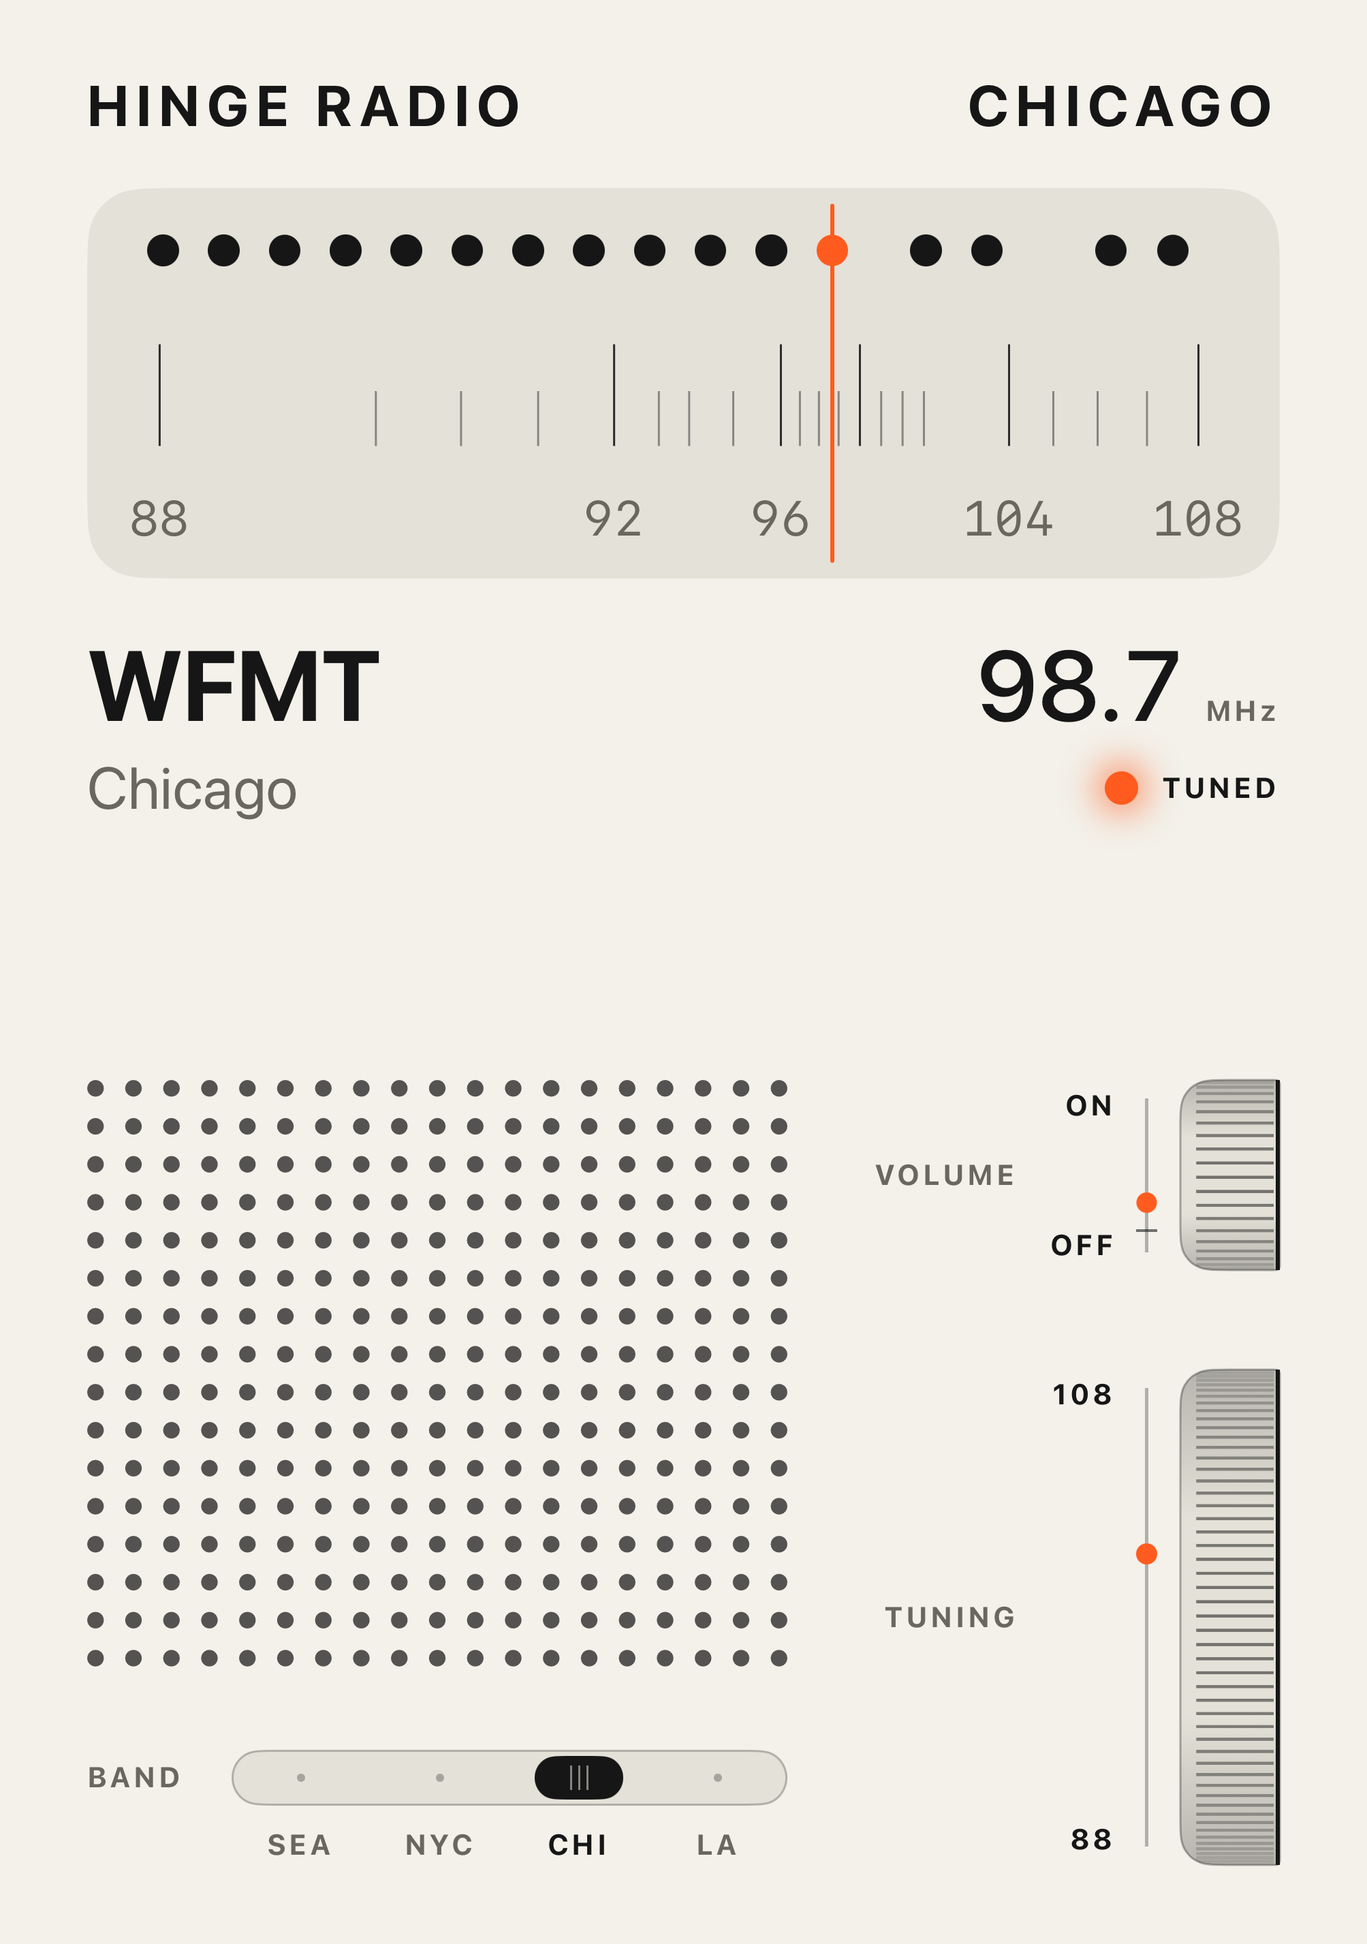
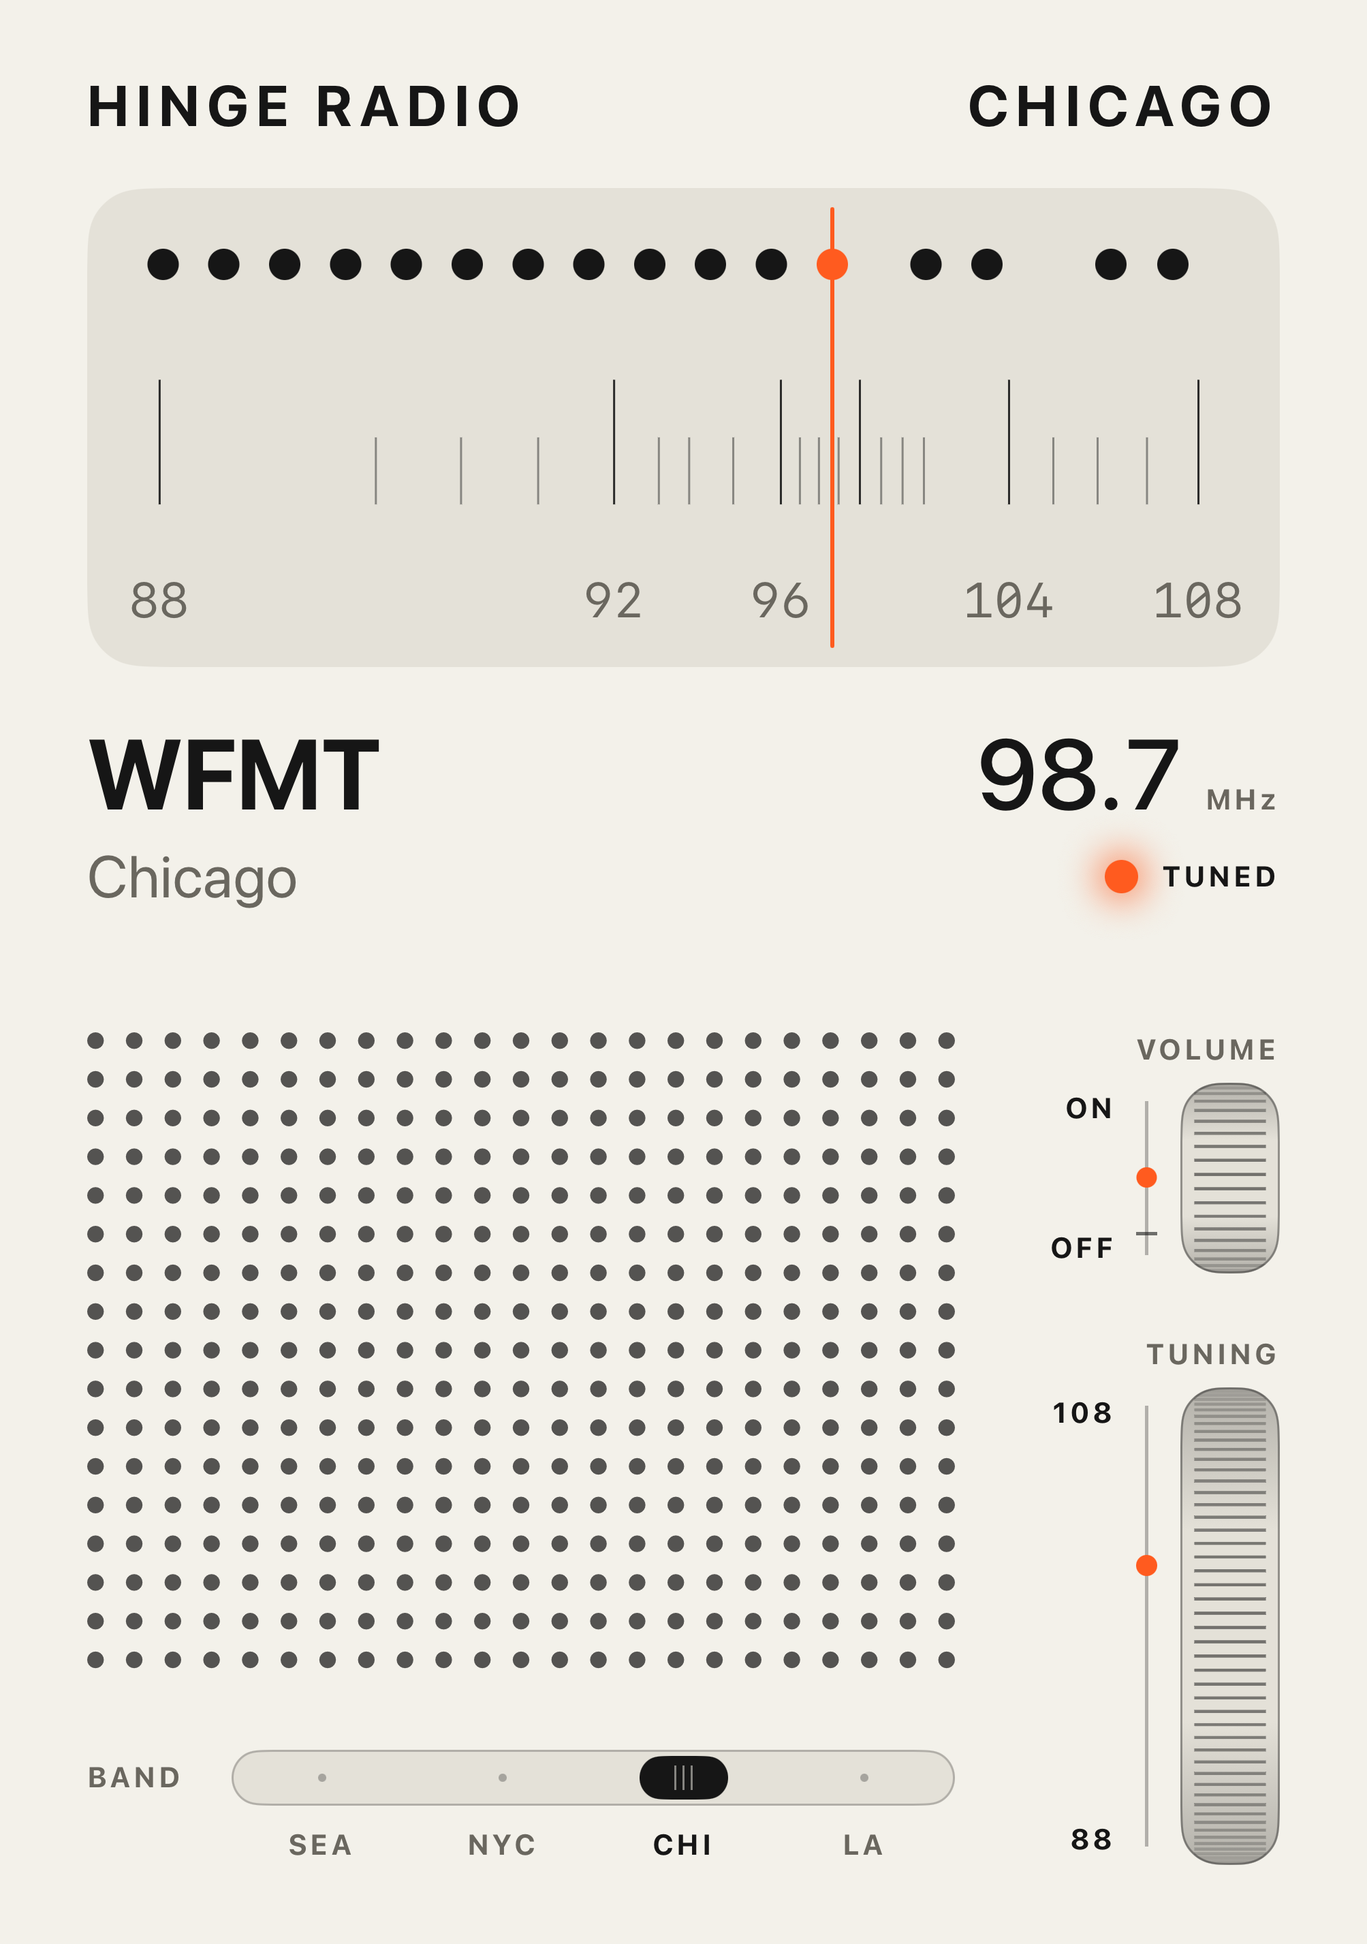
fix: a wheel touch is a tap or a roll, never both; wheel names over wheels, no edge stripe, tighter fold gap

diff --git a/App/Views/WheelView.swift b/App/Views/WheelView.swift
@@ -1,8 +1,9 @@
 import SwiftUI
 
-/// A ridged thumbwheel seen edge on, half hidden behind the plate's right edge: the visible rim
-/// is a tall rounded bar whose ridges roll with its value. Drag up to raise the value; one wheel
-/// height of drag moves it by `span`. A touch that barely moves is a tap.
+/// A ridged thumbwheel seen edge on: a tall rounded rim whose ridges roll with its value. Drag
+/// up to raise the value; one wheel height of drag moves it by `span`. Nothing turns until a
+/// touch has moved `slop` from where it began. A touch that never got that far is a tap if it
+/// lifts within `tapSlop` of where it began, and otherwise does nothing.
 ///
 /// The wheel owns its gesture, so a touch keeps driving the wheel it started on wherever the
 /// finger goes.
@@ -17,19 +18,31 @@ struct WheelView: View {
     let onRelease: (_ predicted: Double) -> Void
     /// A tap, and whether it landed on the upper half.
     let onTap: (_ upperHalf: Bool) -> Void
+    /// How far from its start, in points, a touch may lift and still be a tap (at most `slop`).
+    var tapSlop: CGFloat = slop
 
-    /// Where the current touch began and the value then. Keyed by the touch's start location,
-    /// so a touch whose gesture was cancelled never leaks into the next one.
-    @State private var dragStart: DragStart?
+    /// How far a touch must move, in points, before it turns the wheel.
+    static let slop: CGFloat = 6
 
-    private struct DragStart { let location: CGPoint; let value: Double }
+    /// The current drag, set once the touch has moved past `slop`: which touch it is (by its
+    /// start location), the value then, and the vertical translation then, so the wheel turns
+    /// from where it is rather than jumping by the slop.
+    @State private var drag: Drag?
+    /// True while a finger is down. It resets by itself when the system cancels the gesture,
+    /// which clears `drag` so no stale drag outlives its touch.
+    @GestureState private var touching = false
+
+    private struct Drag: Equatable { let location: CGPoint; let value: Double; let anchor: CGFloat }
 
     var body: some View {
         GeometryReader { proxy in
             let size = proxy.size
             rim(size: size)
                 .contentShape(Rectangle())
-                .gesture(drag(height: size.height))
+                .gesture(gesture(height: size.height))
+        }
+        .onChange(of: touching) { _, down in
+            if !down { drag = nil }
         }
         .accessibilityElement()
     }
@@ -39,9 +52,7 @@ struct WheelView: View {
     /// The rim: a cylinder seen side on. Ridges sit evenly round it, so they crowd together and
     /// fade toward the top and bottom where the surface turns away; the ends are shaded.
     private func rim(size: CGSize) -> some View {
-        let shape = UnevenRoundedRectangle(topLeadingRadius: 0.32 * size.width,
-                                           bottomLeadingRadius: 0.32 * size.width,
-                                           bottomTrailingRadius: 2, topTrailingRadius: 2)
+        let shape = RoundedRectangle(cornerRadius: 0.4 * size.width, style: .continuous)
         return Canvas { context, canvas in
             let radius = canvas.height / 2
             let pitch: CGFloat = 7                                 // ridge spacing round the rim
@@ -54,8 +65,8 @@ struct WheelView: View {
                 let y = radius - radius * sin(theta)
                 let facing = cos(theta)
                 if facing > 0.08 {
-                    let inset = 0.16 * canvas.width
-                    let line = Path(CGRect(x: inset, y: y - 0.75, width: canvas.width - inset - 3, height: 1.5))
+                    let inset = 0.14 * canvas.width
+                    let line = Path(CGRect(x: inset, y: y - 0.75, width: canvas.width - 2 * inset, height: 1.5))
                     context.fill(line, with: .color(Face.ink.opacity(0.55 * Double(facing))))
                 }
                 u += pitch
@@ -63,40 +74,39 @@ struct WheelView: View {
         }
         .background(Face.shade)
         .overlay {
-            LinearGradient(stops: [.init(color: Face.ink.opacity(0.22), location: 0),
+            LinearGradient(stops: [.init(color: Face.ink.opacity(0.24), location: 0),
                                    .init(color: Face.ink.opacity(0), location: 0.3),
                                    .init(color: Face.ink.opacity(0), location: 0.7),
-                                   .init(color: Face.ink.opacity(0.22), location: 1)],
+                                   .init(color: Face.ink.opacity(0.24), location: 1)],
                            startPoint: .top, endPoint: .bottom)
         }
         .clipShape(shape)
-        .overlay(shape.stroke(Face.ink.opacity(0.35), lineWidth: 1))
-        .overlay(alignment: .trailing) {
-            // The plate's edge, which the rest of the wheel sits behind.
-            Rectangle().fill(Face.ink).frame(width: 2)
-        }
+        .overlay(shape.strokeBorder(Face.ink.opacity(0.4), lineWidth: 1))
     }
 
     // MARK: - Touch
 
-    private func drag(height: CGFloat) -> some Gesture {
+    private func gesture(height: CGFloat) -> some Gesture {
         DragGesture(minimumDistance: 0)
-            .onChanged { drag in
+            .updating($touching) { _, down, _ in down = true }
+            .onChanged { touch in
                 guard height > 0 else { return }
-                if dragStart?.location != drag.startLocation {        // a new touch
-                    dragStart = DragStart(location: drag.startLocation, value: value)
+                if drag?.location != touch.startLocation {
+                    // Not yet a drag for this touch: wait until it passes the slop.
+                    guard hypot(touch.translation.width, touch.translation.height) >= Self.slop else { return }
+                    drag = Drag(location: touch.startLocation, value: value, anchor: touch.translation.height)
                 }
-                guard let start = dragStart?.value else { return }
-                onChange(start - Double(drag.translation.height / height) * span)
+                guard let drag else { return }
+                onChange(drag.value - Double((touch.translation.height - drag.anchor) / height) * span)
             }
-            .onEnded { drag in
-                defer { dragStart = nil }
-                guard height > 0, let start = dragStart?.value,
-                      dragStart?.location == drag.startLocation else { return }
-                if hypot(drag.translation.width, drag.translation.height) < 6 {
-                    onTap(drag.location.y < height / 2)
-                } else {
-                    onRelease(start - Double(drag.predictedEndTranslation.height / height) * span)
+            .onEnded { touch in
+                defer { drag = nil }
+                guard height > 0 else { return }
+                if let drag, drag.location == touch.startLocation {
+                    onRelease(drag.value
+                              - Double((touch.predictedEndTranslation.height - drag.anchor) / height) * span)
+                } else if hypot(touch.translation.width, touch.translation.height) <= tapSlop {
+                    onTap(touch.location.y < height / 2)
                 }
             }
     }

diff --git a/App/Views/PlateView.swift b/App/Views/PlateView.swift
@@ -2,8 +2,8 @@ import SwiftUI
 import RadioCore
 
 /// The lower half, a pocket radio's front: the speaker grille with the band switch under it on
-/// the left, and on the right the volume wheel above the tuning wheel, each with its printed
-/// scale and name beside it.
+/// the left, and on the right the volume wheel above the tuning wheel, each with its name
+/// printed over it and its scale beside it.
 struct PlateView: View {
     let model: RadioModel
     let em: CGFloat
@@ -25,26 +25,36 @@ struct PlateView: View {
                     BandSwitch(model: model, em: em)
                 }
             }
-            VStack(alignment: .trailing, spacing: max(48, 1.25 * em)) {
+            VStack(alignment: .trailing, spacing: captionGap) {
+                caption("VOLUME", size: size)
                 volume(size: size)
                     .frame(height: max(92, 2.4 * em))
+                caption("TUNING", size: size)
+                    .padding(.top, wheelGap(size: size) - 2 * captionGap - captionHeight(size))
                 tuning(size: size)
                     .frame(minHeight: 180, maxHeight: .infinity)
             }
             .fixedSize(horizontal: true, vertical: false)
         }
-        .padding(EdgeInsets(top: 1 * em, leading: 1.1 * em, bottom: 1 * em, trailing: 1.1 * em))
+        .padding(EdgeInsets(top: 0.4 * em, leading: 1.1 * em, bottom: 1 * em, trailing: 1.1 * em))
         .foregroundStyle(Face.ink)
     }
 
     private var wheelWidth: CGFloat { max(46, 1.25 * em) }
+    /// Between a wheel's name and the wheel.
+    private var captionGap: CGFloat { 0.2 * em }
+    private func captionHeight(_ size: CGFloat) -> CGFloat { ceil(1.2 * size) }
+    /// From the bottom of the volume wheel to the top of the tuning wheel: at least 44 pt, so a
+    /// thumb on one never lands on the other. The tuning wheel's name sits in this gap.
+    private func wheelGap(size: CGFloat) -> CGFloat {
+        max(48, 1.25 * em, 2 * captionGap + captionHeight(size) + 0.6 * em)
+    }
 
     // MARK: - Volume
 
     private func volume(size: CGFloat) -> some View {
         let radio = model.radio
         return HStack(spacing: 0.3 * em) {
-            caption("VOLUME", size: size)
             scale(top: "ON", bottom: "OFF", fraction: radio.wheel, click: Radio.wheelOnFrom,
                   lit: radio.powerOn, size: size)
             WheelView(value: radio.wheel, span: 1,
@@ -58,8 +68,12 @@ struct PlateView: View {
                 .accessibilityAction { model.togglePower() }
                 .accessibilityAdjustableAction { direction in
                     switch direction {
-                    case .increment: model.setWheel(model.wheel + 0.1)
-                    case .decrement: model.setWheel(model.wheel - 0.1)
+                    // From off, one step up switches on; a step down past the click switches off.
+                    case .increment:
+                        model.setWheel(model.radio.powerOn ? model.wheel + 0.1 : Radio.wheelOnFrom)
+                    case .decrement:
+                        let next = model.wheel - 0.1
+                        model.setWheel(next < Radio.wheelOnFrom ? 0 : next)
                     @unknown default: break
                     }
                 }
@@ -71,7 +85,6 @@ struct PlateView: View {
     private func tuning(size: CGFloat) -> some View {
         let radio = model.radio
         return HStack(spacing: 0.3 * em) {
-            caption("TUNING", size: size)
             scale(top: "108", bottom: "88", fraction: radio.tuning.needle, click: nil,
                   lit: radio.powerOn, size: size)
             WheelView(value: model.position, span: 0.25,
@@ -85,7 +98,8 @@ struct PlateView: View {
                               model.settleOnLockedStation()           // a slow release: no glide
                           }
                       },
-                      onTap: { upperHalf in step(up: upperHalf) })
+                      onTap: { upperHalf in step(up: upperHalf) },
+                      tapSlop: 2)                 // a nudge that is neither tap nor roll does nothing
                 .frame(width: wheelWidth)
                 .accessibilityLabel("Tuning")
                 .accessibilityValue(tuningValue)
@@ -126,6 +140,7 @@ struct PlateView: View {
             .printed(size: size)
             .foregroundStyle(Face.muted)
             .fixedSize()
+            .frame(height: captionHeight(size))
             .accessibilityHidden(true)
     }
 

diff --git a/App/Views/DialView.swift b/App/Views/DialView.swift
@@ -16,7 +16,7 @@ struct DialView: View {
             window(display)
                 .opacity(model.radio.powerOn ? 1 : 0.35)
         }
-        .padding(EdgeInsets(top: 0.9 * em, leading: 1.1 * em, bottom: 0.8 * em, trailing: 1.1 * em))
+        .padding(EdgeInsets(top: 0.9 * em, leading: 1.1 * em, bottom: 0.4 * em, trailing: 1.1 * em))
         .foregroundStyle(Face.ink)
         .animation(.easeOut(duration: 0.3), value: model.radio.powerOn)
     }
@@ -82,7 +82,6 @@ struct DialView: View {
             }
             .fixedSize()
         }
-        .frame(height: 3.2 * em, alignment: .top)
         .accessibilityElement(children: .combine)
     }
 }

diff --git a/App/Views/PoseCard.swift b/App/Views/PoseCard.swift
@@ -1,6 +1,6 @@
 import SwiftUI
 
-/// Shown for the shut and flat poses: the display's title and line under the app name.
+/// Shown for the flat pose: the display's title and line under the app name.
 struct PoseCard: View {
     let model: RadioModel
     let em: CGFloat

diff --git a/README.md b/README.md
@@ -47,13 +47,13 @@ The phone has five poses. The app works out which one from the hinge angle, whic
 
 The top half is the dial: the city name, the needle, a row of dots for the stations, then the station name with its frequency beside it and a lamp labelled TUNED. The lamp is unlit when the radio is off or on static, dim orange while a station tunes in, and bright orange while it plays. The line under the name always says the same thing in words. The top half does not respond to touch.
 
-The lower half is the front of a pocket radio: a speaker grille, a band switch under it, and two ridged wheels at the right edge. Each wheel has a short printed scale beside it with a dot that shows where it is turned.
+The lower half is the front of a pocket radio: a speaker grille, a band switch under it, and two ridged wheels at the right edge. Each wheel has its name printed over it and a short printed scale beside it with a dot that shows where it is turned. A wheel turns only once the finger has moved 6 pt; a touch that lifts before that is a tap.
 
 1. Volume (the small wheel, top). Roll it up past the click and the radio comes on; keep rolling for louder; roll it down past the click and it goes off. Below 0.15 of its travel it is off. A tap on it switches the radio on (at the last volume used) or off. One wheel height of rolling covers the whole range.
-2. Tuning (the tall wheel, bottom). Roll it up to go up the band, down to go down. One wheel height of rolling moves a quarter of the band. Near a station it settles on it, the name and its city of licence appear, and the station plays. Between stations the screen says "Static". A slow release stays where you let go (on the station if one is locked); a quick flick carries on and settles on the nearest station. A tap on the upper half of the wheel goes to the next station up, on the lower half to the next one down.
+2. Tuning (the tall wheel, bottom). Roll it up to go up the band, down to go down. One wheel height of rolling moves a quarter of the band. Near a station it settles on it, the name and its city of licence appear, and the station plays. Between stations the screen says "Static". A slow release stays where you let go (on the station if one is locked); a quick flick carries on and settles on the nearest station. A tap on the upper half of the wheel goes to the next station up, on the lower half to the next one down. On this wheel a tap must lift within 2 pt of where it began; a small nudge between that and 6 pt does nothing.
 3. Band. Tap one of the four positions (SEA, NYC, CHI, LA) to slide the switch there. The dial redraws with that city's stations and the old city goes quiet at once. The needle stays where it was.
 
-With VoiceOver: "Volume" is adjustable in steps of a tenth and a double-tap switches the radio on or off; "Tuning" is adjustable to the next or previous station and reads the station name and frequency; "Band" reads as a picker of four cities. With Reduce Motion on, a flick or a step jumps to the station instead of gliding.
+With VoiceOver: "Volume" is adjustable in steps of a tenth (from off, one step up switches on at the click; a step down past the click switches off) and a double-tap switches the radio on or off; "Tuning" is adjustable to the next or previous station and reads the station name and frequency; "Band" reads as a picker of four cities. With Reduce Motion on, a flick or a step jumps to the station instead of gliding.
 
 ### Book, tent and shut: standby
 
@@ -133,6 +133,16 @@ python3 -m unittest tools/test_build_stations.py      # 19 tests
 ```
 
 On 2026-11-22, on commit `8987edd`, the Swift suite passed 74 of 74 and the Python suite 19 of 19. After the review fixes the same day, the Swift suite passed 81 of 81 and the Python suite 19 of 19. With the pocket radio face, the Swift suite passed 85 of 85 and the Python suite 19 of 19. One of the Python tests checks that the plain-http hosts in `Stations.json` and the ones `App/Info.plist` allows are the same set.
+
+## Wheel touch fix (2026-11-22)
+
+A review found that one touch on a wheel could both turn it and count as a tap: near the click, a tap with a few points of jitter switched the radio on and straight back off. Now a wheel turns only after the touch passes 6 pt, measured from that point, and a touch that never got that far is the only kind that can be a tap. Checked on the iPhone Duo simulator (iOS 27.1), muted, in flex:
+
+- With the volume wheel rolled to just under the click (still "Off", no log line), a touch that moved 3.5 pt up and lifted logged `CONNECT KING-FM` (19:37:10.314) and `PLAYING KING-FM` (19:37:11.580), and no `STOP` after it.
+- A plain tap then logged `STOP` (19:37:26.282).
+- A roll up logged `CONNECT KING-FM` (19:37:26.768) and `PLAYING` (19:37:28.021); a roll down past the click logged `STOP` (19:37:38.026). The roll up did not switch the radio off again on release.
+- On the tuning wheel a 4 pt nudge logged nothing (no `LOCK`, no `STATIC`); a tap on its upper half logged `STATIC 0.558` and `LOCK KZOK-FM 0.699` (19:37:55), one station up.
+- The wheel names now sit over their wheels, the black edge stripe is gone, and the space across the fold is smaller (about 66 pt from the TUNED row to the grille, none of it within 14 pt of the fold). `docs/check/40-pocket-flex.png` and `21-flex.png` were retaken.
 
 ## Pocket radio pass (2026-11-22)
 
